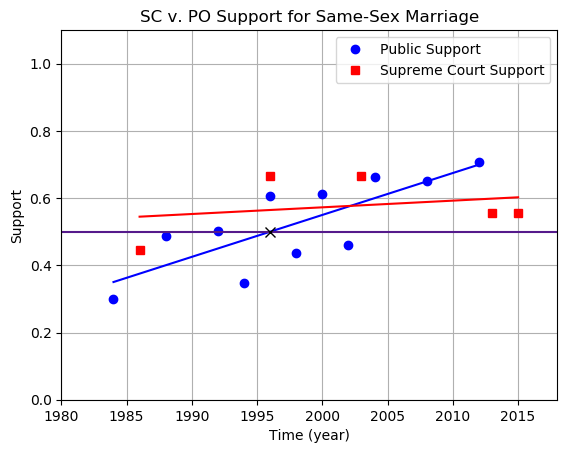
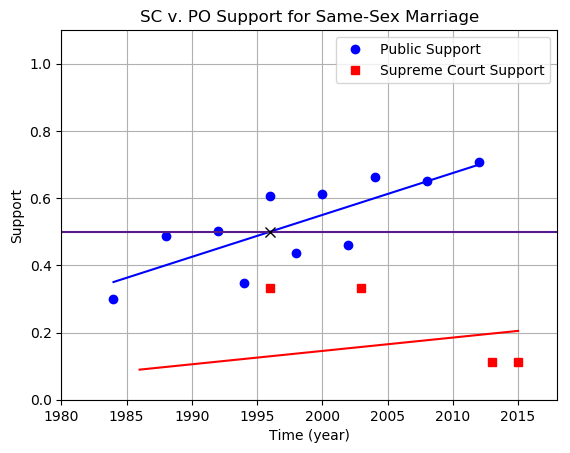
cleaning

diff --git a/scvpo_anal.py b/scvpo_anal.py
@@ -46,11 +46,6 @@ issue_df=pd.read_csv('./sc_issues.csv')
 ############################################################################
 ############################################################################
 
-#keywords associated with ISSUE
-#liberals are supportive of ISSUE
-LIB_PRO_ISSUE = True
-CONS_PRO_ISSUE = not LIB_PRO_ISSUE
-
 #SUPREME COURT
 #############################################################################
 
@@ -70,14 +65,11 @@ def sc_force(id):
     vote_mag = vote_diff/num_justices #normalized magnitude of vote force
 
     if polarity == PLUS_POLE:
-        return PLUS_POLE*vote_strength
+        return PLUS_POLE*vote_mag
     elif polarity == MINUS_POLE:
-        return MINUS_POLE*vote_strength
+        return MINUS_POLE*vote_mag
     elif polarity == NO_POLE:
-        return NO_POLE*vote_strength
-
-
-
+        return NO_POLE*vote_mag
 
 #polarity of supreme court case.
 #use decision direction column to decide
@@ -99,26 +91,29 @@ def case_year(id):
     return dt.datetime.strptime(case['dateDecision'],'%m/%d/%Y').year
 
 #dict of supreme court polarity by year
-sc_support={case_year(id):sc_norm(id) for id in sc_rel_ind}
+sc_support={case_year(id):sc_force(id) for id in sc_rel_ind}
 
 
 #PUBLIC OPINION
 #########################################################################################
 
-#convert entry to normalized value in [0,1]
+#normalize entry to polarization value in [-1,1]
 #requires maximum value in col, and dict to convert responses to a scale
 #default scale is just identity function
 def norm(entry,max,scale=(lambda x: x)):
-    if scalable(entry,scale): return scale(float(entry))/max
+    if scalable(entry,scale):
+        mag = scale(float(entry))/max #normalize to [0,1]
+        return 2*mag - 1
     else: return False
 
 #normalize each entry in a series
-def norm_col(col,col_max,scale=(lambda x: x)): return [norm(entry,col_max,scale) for entry in col if scalable(entry,scale)]
+def norm_col(col,col_max,scale=(lambda x: x)):
+    return [norm(entry,col_max,scale) for entry in col if scalable(entry,scale)]
 
 #get dict of averages for each column by year
-def col_yr_avg(q_id,col_max=1,scale=(lambda x: x)):
+def col_yr_avg(q_id):
     #get appropriate conversion of responses to support values
-    resp_conv=response_dict(q_id)
+    resp_conv=resp_convert()[q_id]
     #compute the possible max of all responses
     col_max=max(resp_conv.values())
     #construct a function to use as a conversion scale
@@ -132,16 +127,17 @@ def col_yr_avg(q_id,col_max=1,scale=(lambda x: x)):
     ques_yr_avg={yr:np.average(ques_norm[yr]) for yr in SURVEY_YEARS if not np.isnan(np.average(ques_norm[yr]))}
     return ques_yr_avg
 
+#a dictionary keeping track of the conversion scales for
+#for each PO question
+def resp_convert():
+    return {
+        'VCF0232': {i:i for i in range(97)}, #polarity unclear as HOT/COLD is hard to judge
+        'VCF0877': {1:3,2:2,4:1,5:0}, #polarity=descending
+        'VCF0878': {1:1,5:0}, #polarity=descending
+        'VCF0876': {1:1,5:0}, #polarity=descending
+        'VCF0876a': {1:4,2:3,4:2,5:1}, #polarity=descending
+    }
 
-
-#convert text dict of possible repsponses to python dictionary
-#for given relevent question index
-def response_dict(q_id):
-    if q_id == 'VCF0232': return {i:i for i in range(97)} #polarity unclear as HOT/COLD is hard to judge
-    if q_id == 'VCF0877': return {1:3,2:2,4:1,5:0} #polarity=descending
-    if q_id == 'VCF0878': return {1:1,5:0} #polarity=descending
-    if q_id == 'VCF0876': return {1:1,5:0} #polarity=descending
-    if q_id == 'VCF0876a': return {1:4,2:3,4:2,5:1} #polarity=descending
 
 #AVERAGE PUBLIC OPINION
 #########################################################################################

diff --git a/load_data.py b/load_data.py
@@ -41,11 +41,21 @@ po_rel_ques=['VCF0232','VCF0877','VCF0878','VCF0876','VCF0876a']
 #case centered data stored in dataframe
 cd_df=pd.read_csv('~/Data/scvpo/scdb_case_data.csv',encoding='windows-1252')
 cd_legacy_df=pd.read_csv('~/Data/scvpo/scdb_legacy_case_data.csv',encoding='windows-1252')
+
+cd_dfs=[cd_df,cd_legacy_df]
+all_cd_df = pd.concat(cd_dfs) #merge case centered dataframes
+rel_cd_cases = all_cd_df.iloc[sc_rel_ind] #only need relevant SC cases
+
 #justice (the SC justice as a person) centered data stored in dataframe
 #justice data is a superset of case data and gives info about how
 #each particular jusitce voted.
 jd_df=pd.read_csv('~/Data/scvpo/scdb_justice_data.csv',encoding='windows-1252')
 jd_legacy_df=pd.read_csv('~/Data/scvpo/scdb_legacy_case_data.csv',encoding='windows-1252')
+
+#relevant justice data
+jd_dfs=[jd_df,jd_legacy_df]
+all_jd_df = pd.concat(jd_dfs) #merge justice centered dataframes
+rel_jd_cases = all_jd_df.iloc[sc_rel_ind] #only need relevant cases
 
 #PUBLIC OPINION DATA
 #ANES time series cumulative data. question surveys to monitor voting,
@@ -61,5 +71,6 @@ with open('./anes/data_types.csv', mode='r') as infile:
     data_types = {rows[0]:rows[1] for rows in reader}
 
 po_df=pd.read_csv('~/Data/scvpo/anes_data.csv')
+rel_po_df = po_df[po_rel_ques] #only use relevant public opinion questions
 
 SURVEY_YEARS=tuple(set(po_df[SURVEY_YEAR]))
